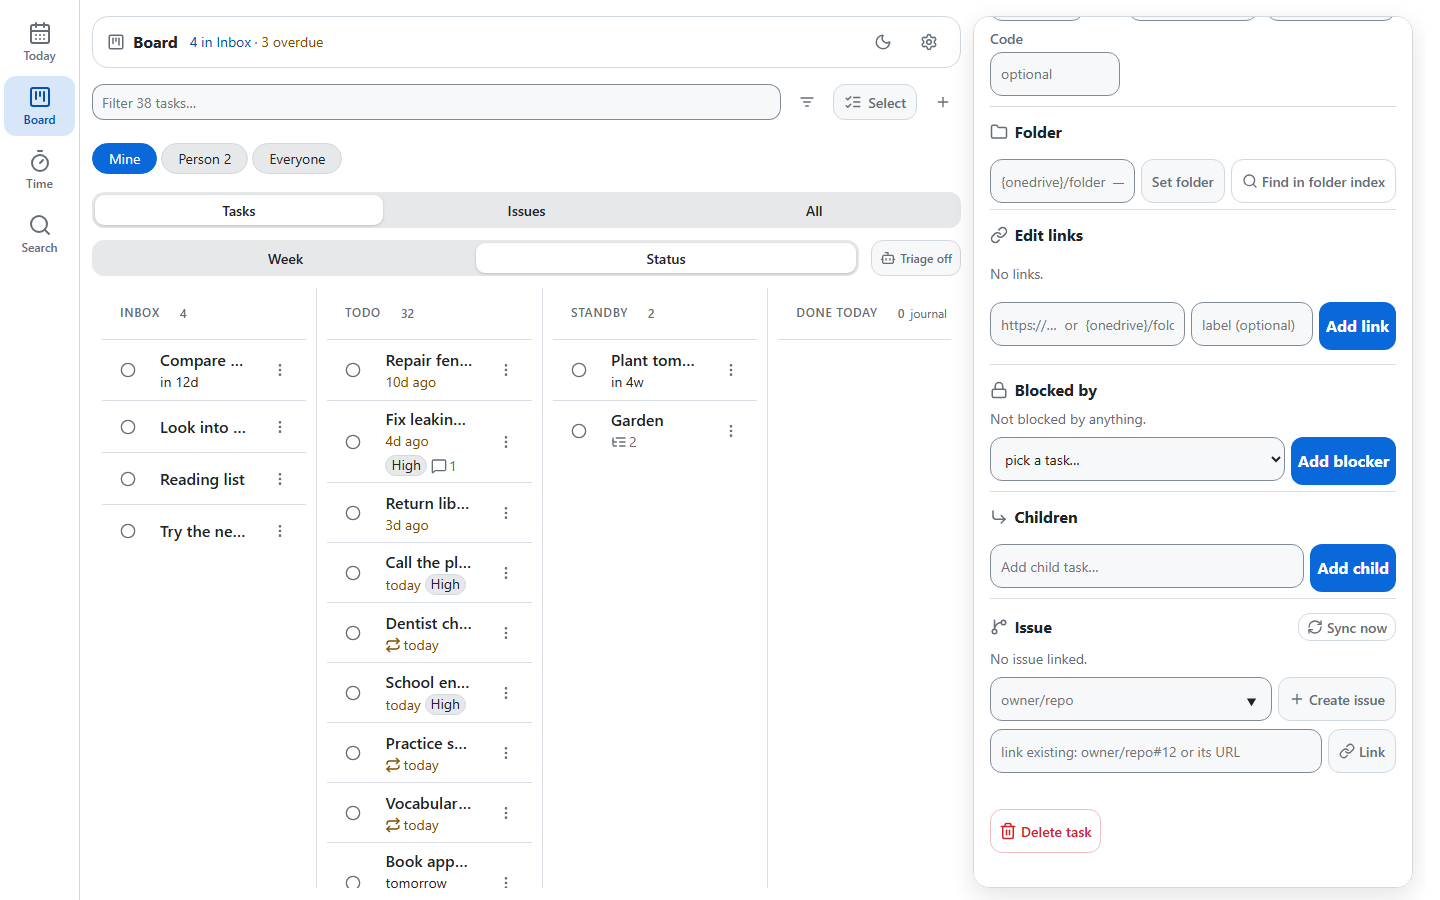
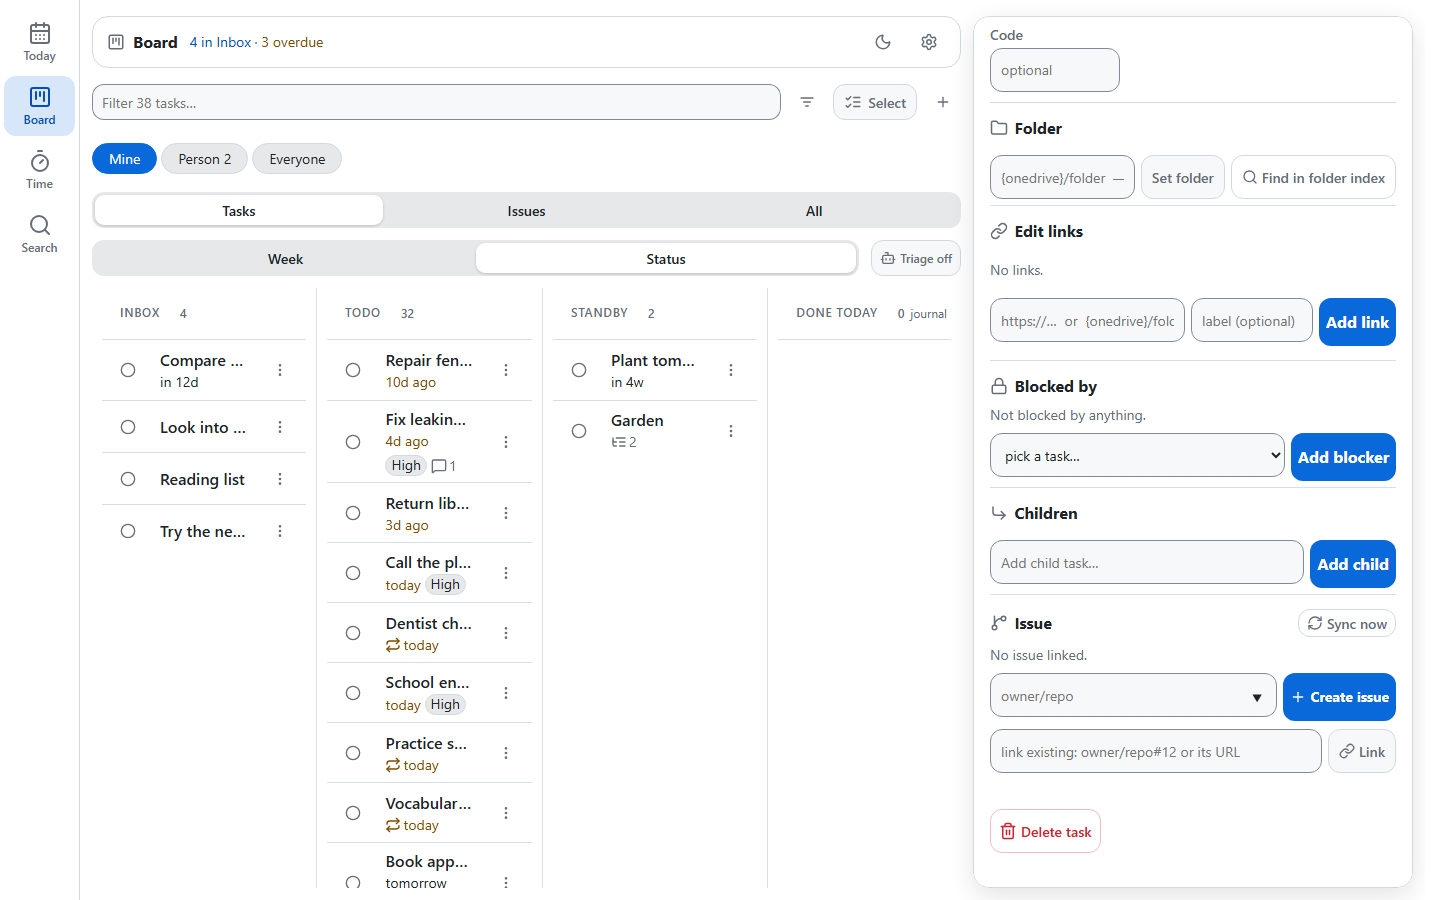
fix: Create issue is a button-primary like the drawer's other commits (#694) (#698)
- the drawer reads as a dialog to the design review; with Add child the last primary, the surface-tier Create issue below it was a larger rival (COMP-16)
- the drawer's commits now share one tier; the gallery is re-baselined for the issue panel

Part of project-scaffolding#816

diff --git a/app/webapp/static/styles/drawer.css b/app/webapp/static/styles/drawer.css
@@ -360,7 +360,7 @@
 .issue-actions .button-ghost, .issue-sync { display: inline-flex; align-items: center; gap: var(--space-xs); min-height: 28px; padding: 2px var(--space-sm); }
 .issue-form { display: flex; gap: 6px; }
 .issue-form .input-native { flex: 1 1 auto; min-width: 0; }
-.issue-form .button-surface { white-space: nowrap; flex: none; display: inline-flex; align-items: center; gap: var(--space-xs); }
+.issue-form .button-primary, .issue-form .button-surface { white-space: nowrap; flex: none; display: inline-flex; align-items: center; gap: var(--space-xs); }
 a.chip.chip-issue-closed { color: var(--muted); background: var(--card-off); border-color: var(--line); }
 .chip-issue-closed .chip-label { text-decoration: line-through; text-decoration-color: color-mix(in srgb, var(--muted) 60%, transparent); }
 .chip-issue .chip-state { width: var(--icon-inline); height: var(--icon-inline); color: var(--success); }

diff --git a/app/webapp/static/js/drawer/issue.js b/app/webapp/static/js/drawer/issue.js
@@ -102,7 +102,7 @@ function createIssueForm(ctx, t, st, configured) {
   dl.replaceChildren();
   repos.forEach(function (r) { const o = document.createElement('option'); o.value = r; dl.appendChild(o); });
   if (repos.length === 1) repoInput.value = repos[0];
-  const createBtn = formButton(createForm, 'button-surface', icon('plus') + ' Create issue', { track: 'drawer.issue-create' });
+  const createBtn = formButton(createForm, 'button-primary', icon('plus') + ' Create issue', { track: 'drawer.issue-create' });
   createBtn.disabled = !configured;
   createBtn.title = configured ? "Open an issue with this task's title and description, then link it" : 'Issue provider not configured';
   createForm.append(repoInput, createBtn);
